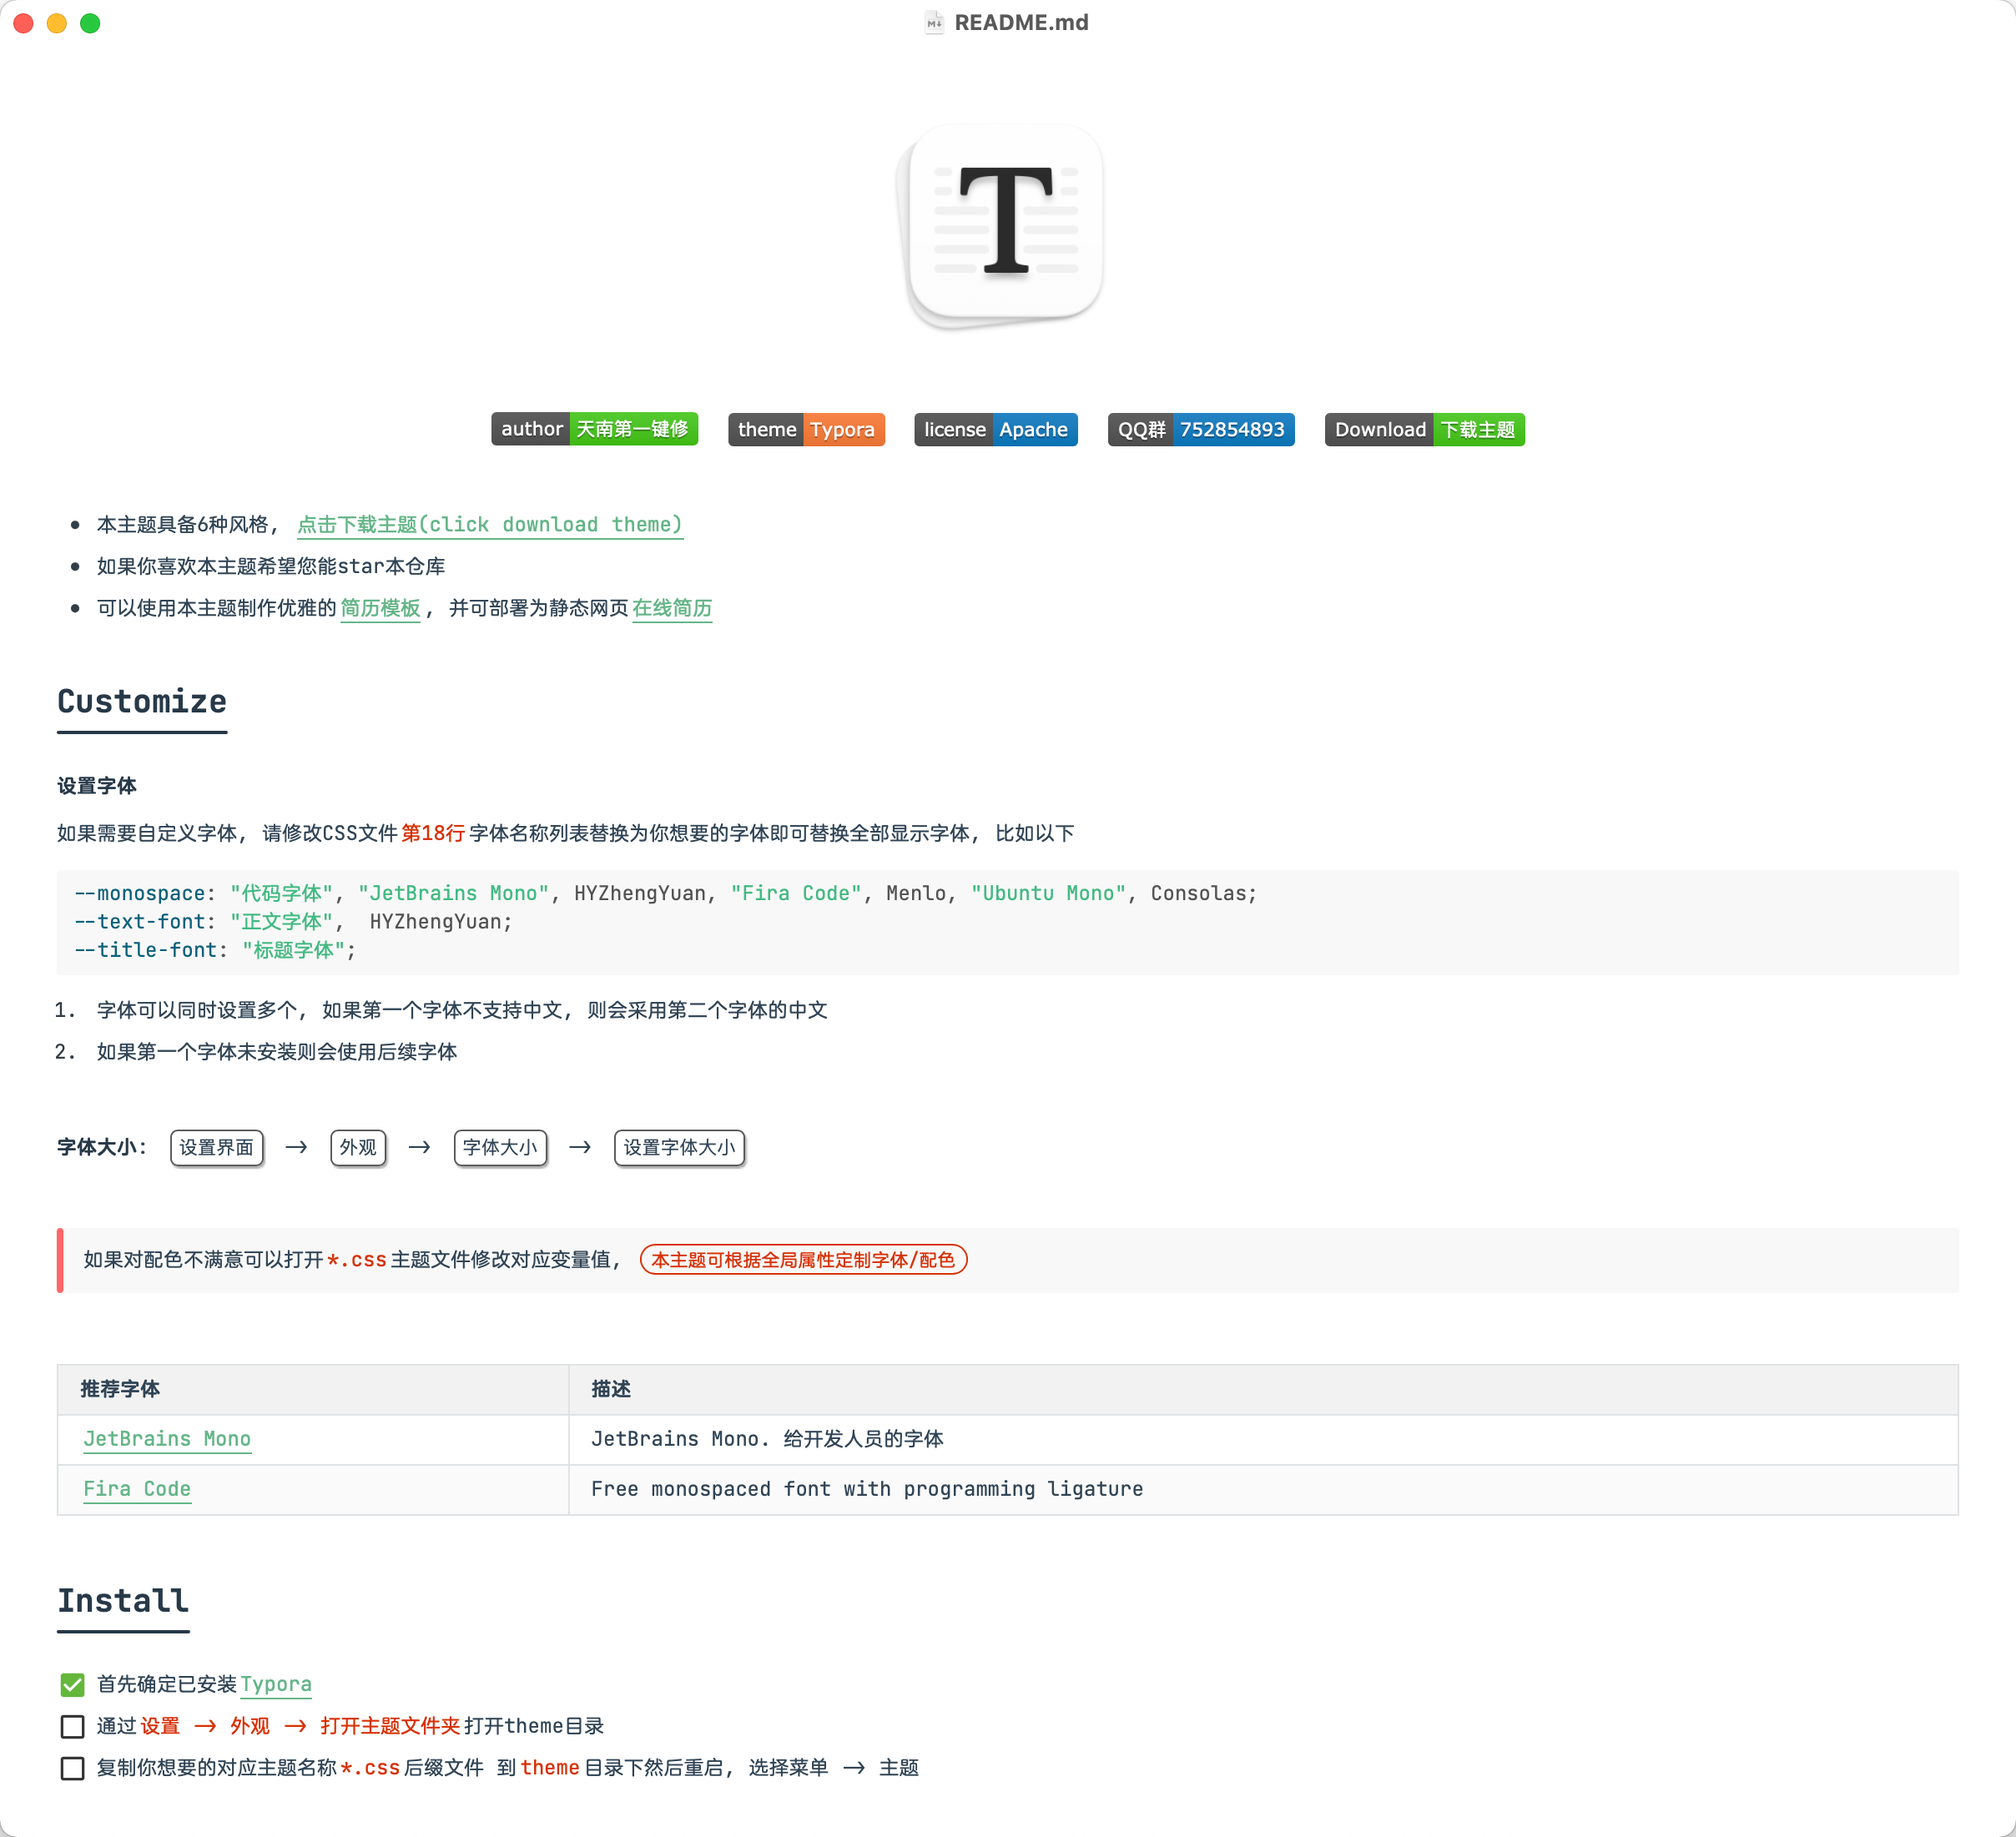
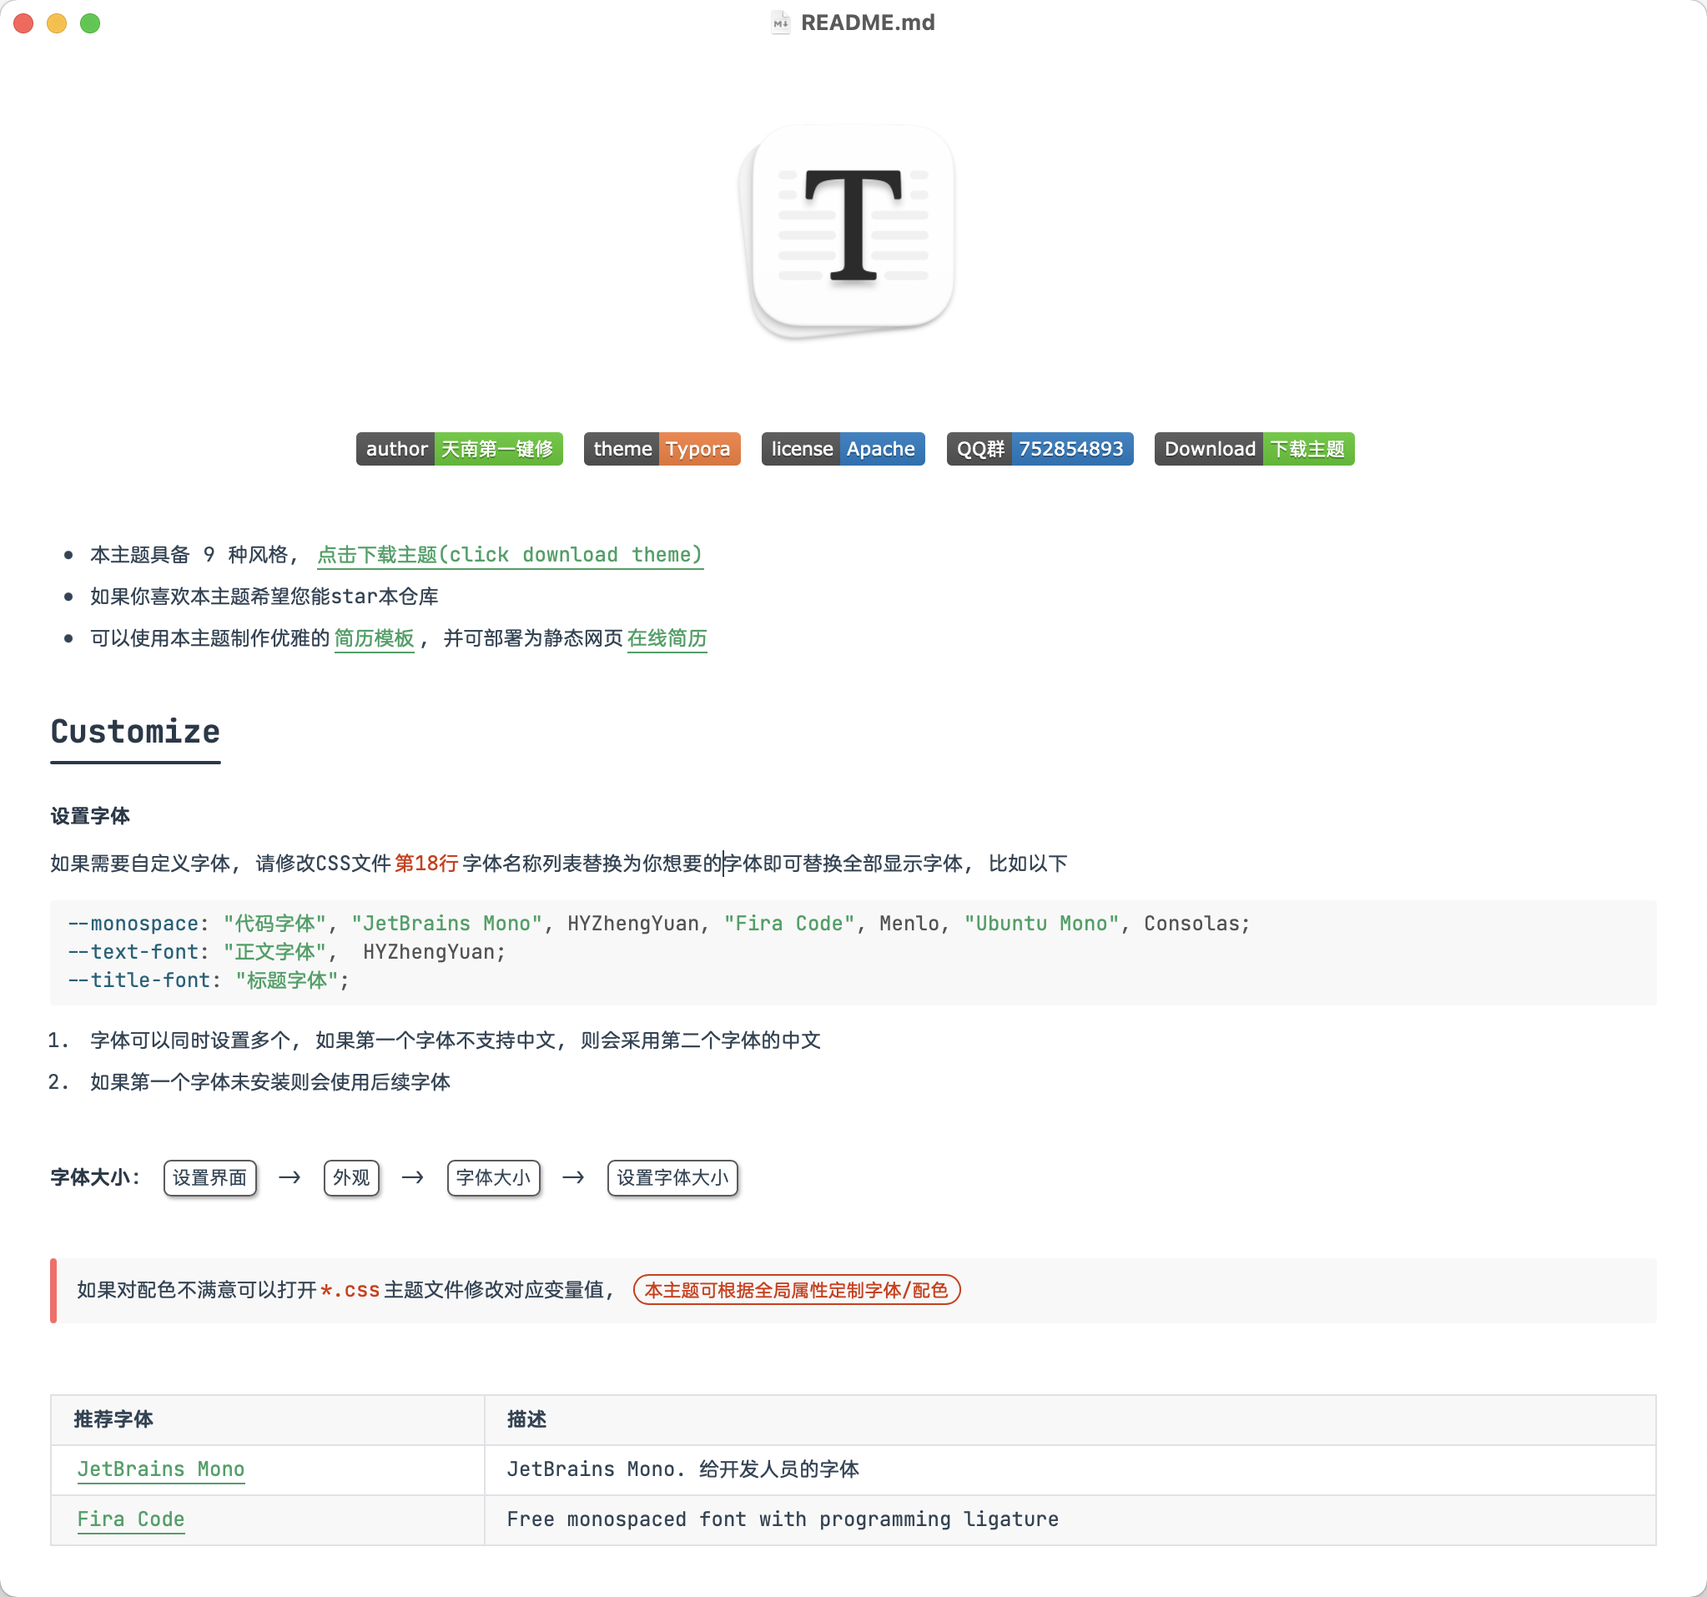
更新文档

diff --git a/README.md b/README.md
@@ -12,7 +12,7 @@
 <a href="https://codeload.github.com/liangjingkanji/DrakeTyporaTheme/zip/refs/heads/master"><img src="https://img.shields.io/badge/Download-%E4%B8%8B%E8%BD%BD%E4%B8%BB%E9%A2%98-brightgreen"/></a>
 </p><br>
 
-- 本主题具备7种风格, [点击下载主题(click download theme)](https://codeload.github.com/liangjingkanji/DrakeTyporaTheme/zip/refs/heads/master)
+- 本主题具备 9 种风格, [点击下载主题(click download theme)](https://codeload.github.com/liangjingkanji/DrakeTyporaTheme/zip/refs/heads/master)
 - 如果你喜欢本主题希望您能star本仓库
 - 可以使用本主题制作优雅的[简历模板](https://github.com/liangjingkanji/Resume-Template), 并可部署为静态网页[在线简历](https://liangjingkanji.github.io/Resume-Template/)
 
@@ -68,6 +68,8 @@
 | drake-vue    | <img src="https://raw.githubusercontent.com/liangjingkanji/DrakeTyporaTheme/master/img/thumbnail-vue.png" width="500"/> |
 | drake-juejin    | <img src="https://raw.githubusercontent.com/liangjingkanji/DrakeTyporaTheme/master/img/thumbnail-juejin.png" width="500"/> |
 | drake-dark   | <img src="https://raw.githubusercontent.com/liangjingkanji/DrakeTyporaTheme/master/img/thumbnail-dark.png" width="500"/> |
+| drake-material   | <img src="https://raw.githubusercontent.com/liangjingkanji/DrakeTyporaTheme/master/img/thumbnail-material.png" width="500"/> |
+| drake-black   | <img src="https://raw.githubusercontent.com/liangjingkanji/DrakeTyporaTheme/master/img/thumbnail-black.png" width="500"/> |
 | drake-purple | <img src="https://raw.githubusercontent.com/liangjingkanji/DrakeTyporaTheme/master/img/thumbnail-purple.png" width="500"/> |
 | drake-ayu    | <img src="https://raw.githubusercontent.com/liangjingkanji/DrakeTyporaTheme/master/img/thumbnail-ayu.png" width="500"/> |
 | drake        | <img src="https://raw.githubusercontent.com/liangjingkanji/DrakeTyporaTheme/master/img/thumbnail.png" width="500"/> |
